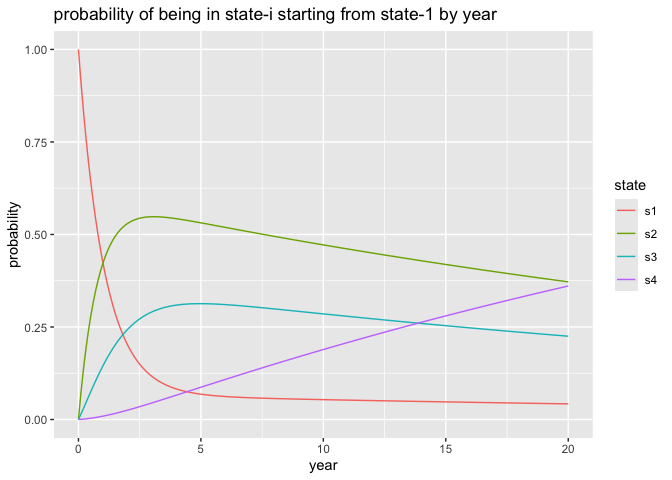
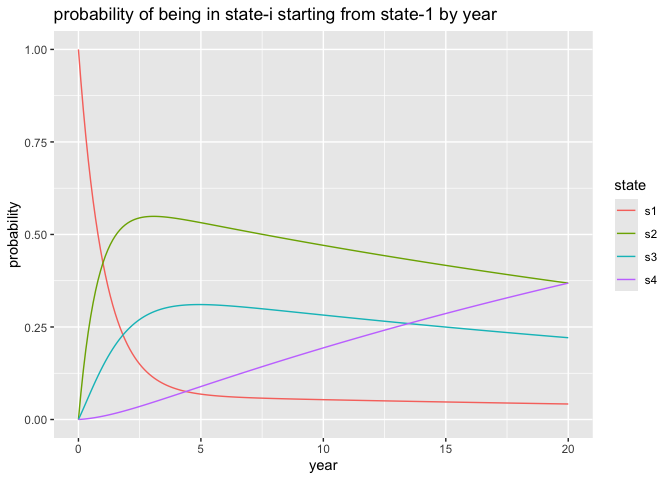
specify variables of interest

diff --git a/mc_stan/mc_stan.md b/mc_stan/mc_stan.md
@@ -232,6 +232,7 @@ res <- as.data.frame(sampling(
   cores = 4,                  # number of cores (could use one per chain)
   # warmup = 16000,              # number of warmup iterations per chain
   # iter = 20000,                # total number of iterations per chain
+  pars = c("lambda", "Pd"),
   refresh = 0                # no progress shown
 ))
 ```
@@ -246,19 +247,19 @@ head(res)
 ```
 
     ##    lambda[1] lambda[2] lambda[3]   Pd[1,1]   Pd[2,1]   Pd[3,1]   Pd[1,2]
-    ## 3  0.1727941 0.8897322 0.7862758 0.8086313 0.4721789 0.3189353 0.1790892
-    ## 16 0.1653070 0.9052762 0.7887658 0.8058222 0.3984292 0.2339640 0.1832758
-    ## 20 0.1597226 0.9057658 0.7615140 0.8519064 0.4320555 0.3160309 0.1468264
-    ## 36 0.1549654 0.8849122 0.7897609 0.8337659 0.4465182 0.3025398 0.1648178
-    ## 47 0.1650049 0.8776910 0.7870424 0.8250317 0.4245961 0.2527932 0.1743552
-    ## 48 0.1611034 0.9892860 0.7623343 0.8190609 0.4675756 0.2332489 0.1750926
+    ## 10 0.1628984 0.8599023 0.7881124 0.8130072 0.4349987 0.2699227 0.1791849
+    ## 11 0.1624904 0.9345124 0.7528930 0.8148013 0.4423667 0.1413754 0.1840547
+    ## 13 0.1629299 0.9109795 0.7923456 0.8162888 0.4630642 0.2487742 0.1803863
+    ## 18 0.1661912 0.9204121 0.7919859 0.7887588 0.4865175 0.2963291 0.2090546
+    ## 25 0.1630692 0.9668702 0.7604143 0.8117618 0.4809061 0.2550398 0.1870415
+    ## 27 0.1706249 0.8907489 0.8450107 0.8333306 0.4779895 0.2384421 0.1629542
     ##      Pd[2,2]   Pd[3,2]     Pd[1,3]     Pd[2,3]    Pd[3,3]      lp__
-    ## 3  0.5185911 0.6437345 0.012279536 0.009230069 0.03733028 -2017.570
-    ## 16 0.5815135 0.6891482 0.010901974 0.020057340 0.07688779 -2017.428
-    ## 20 0.5588271 0.6470558 0.001267197 0.009117370 0.03691334 -2017.623
-    ## 36 0.5394729 0.6799889 0.001416265 0.014008873 0.01747138 -2017.710
-    ## 47 0.5659313 0.7294708 0.000613094 0.009472590 0.01773599 -2017.576
-    ## 48 0.5180258 0.7102191 0.005846490 0.014398609 0.05653207 -2016.541
+    ## 10 0.5621425 0.6273269 0.007807851 0.002858761 0.10275040 -2017.650
+    ## 11 0.5412457 0.8383803 0.001144047 0.016387623 0.02024431 -2017.600
+    ## 13 0.5225135 0.6147179 0.003324929 0.014422357 0.13650786 -2016.531
+    ## 18 0.4960226 0.6666698 0.002186647 0.017459924 0.03700115 -2016.984
+    ## 25 0.5063285 0.6951067 0.001196663 0.012765324 0.04985347 -2016.587
+    ## 27 0.5084076 0.6673389 0.003715177 0.013602839 0.09421907 -2017.197
 
 From our sample can extract the discrete step matrix, which encodes:
 given one changed states what state did one change to?
@@ -282,9 +283,9 @@ step_matrix
 ```
 
     ##           [,1]      [,2]      [,3]        [,4]
-    ## [1,] 0.0000000 0.8169336 0.1788527 0.004213738
-    ## [2,] 0.4548119 0.0000000 0.5352671 0.009921042
-    ## [3,] 0.2483818 0.7012664 0.0000000 0.050351738
+    ## [1,] 0.0000000 0.8164194 0.1795821 0.003998510
+    ## [2,] 0.4592498 0.0000000 0.5310407 0.009709471
+    ## [3,] 0.2468959 0.7001586 0.0000000 0.052945426
     ## [4,] 0.0000000 0.0000000 0.0000000 0.000000000
 
 And it is then standard to combine this and the expected hold-times to
@@ -305,9 +306,9 @@ Q
 ```
 
     ##             [,1]       [,2]       [,3]        [,4]
-    ## [1,] -0.89895973  0.7553232  0.1394228 0.004213738
-    ## [2,]  0.07475527 -0.5019385  0.4172621 0.009921042
-    ## [3,]  0.04082535  0.6483792 -0.7395563 0.050351738
+    ## [1,] -0.89966614  0.7556262  0.1400414 0.003998510
+    ## [2,]  0.07529291 -0.4991178  0.4141154 0.009709471
+    ## [3,]  0.04047800  0.6480226 -0.7414460 0.052945426
     ## [4,]  0.00000000  0.0000000  0.0000000 0.000000000
 
 It is a standard argument that the probability of observing a patient
@@ -321,9 +322,9 @@ Matrix::expm(0.1 * Q)
 
     ## 4 x 4 Matrix of class "dgeMatrix"
     ##             [,1]       [,2]       [,3]         [,4]
-    ## [1,] 0.914317027 0.07088756 0.01432070 0.0004747052
-    ## [2,] 0.007053497 0.95258989 0.03928605 0.0010705636
-    ## [3,] 0.003989282 0.06111436 0.93000889 0.0048874673
+    ## [1,] 0.914254331 0.07092480 0.01436554 0.0004553326
+    ## [2,] 0.007103117 0.95285005 0.03899245 0.0010543831
+    ## [3,] 0.003958266 0.06108237 0.92982300 0.0051363711
     ## [4,] 0.000000000 0.00000000 0.00000000 1.0000000000
 
 As is usual with exponents, the `k* 0.1` year estimate is the `k'th`
@@ -334,11 +335,11 @@ Matrix::expm(3 * 0.1 * Q) - (Matrix::expm(0.1 * Q) %*% Matrix::expm(0.1 * Q) %*%
 ```
 
     ## 4 x 4 Matrix of class "dgeMatrix"
-    ##               [,1]         [,2]          [,3]         [,4]
-    ## [1,] -3.330669e-16 0.000000e+00 -6.938894e-18 4.336809e-19
-    ## [2,]  3.469447e-18 2.220446e-16  5.551115e-17 1.301043e-18
-    ## [3,] -3.469447e-18 2.775558e-17 -2.220446e-16 3.469447e-18
-    ## [4,]  0.000000e+00 0.000000e+00  0.000000e+00 0.000000e+00
+    ##               [,1]          [,2]          [,3]          [,4]
+    ## [1,]  0.000000e+00 -5.551115e-17 -6.938894e-18  0.000000e+00
+    ## [2,]  3.469447e-18 -4.440892e-16 -4.163336e-17 -4.336809e-19
+    ## [3,] -3.469447e-18 -8.326673e-17 -4.440892e-16  1.734723e-18
+    ## [4,]  0.000000e+00  0.000000e+00  0.000000e+00  0.000000e+00
 
 Notice we have not referred to the [Kolmogorov
 equations](https://en.wikipedia.org/wiki/Kolmogorov_equations#Continuous-time_Markov_chains),
